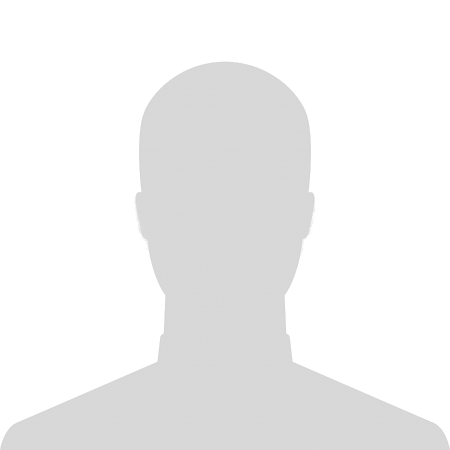
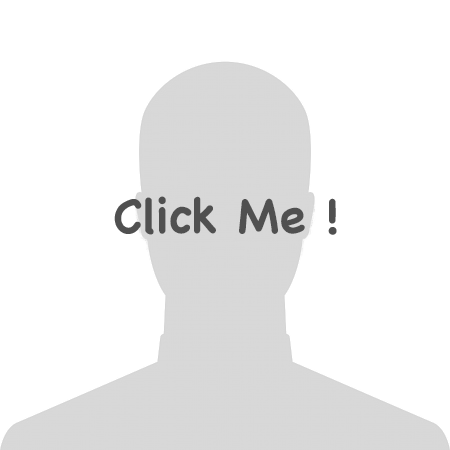
2-css, open camera2 31

Changed region(s): [[0.2489, 0.4356, 0.4978, 0.5289], [0.5289, 0.4356, 0.6844, 0.5289], [0.7156, 0.4356, 0.7467, 0.5289]]

diff --git a/www/picUpload.html b/www/picUpload.html
@@ -17,18 +17,21 @@
             <div class="pic_upload">
 <!--                <input type="file" accept="image/*" id="capture" capture="camera" class="ios-btn" size="0" >-->
 <!--                <img id="my_image" src="images/profile-image3.png" onclick="capturePicture()">-->
-                <img id="my_image" src="images/profile-image3.png">
+                <img id="my_image" src="images/profile-image3.png" onclick="capturePicture()">
             </div>
-            
+            <div id="snap-text">
+                    <p class="welcome-text">Get ready to take your picture!</p>
+            </div>
             <div class="btn-holder2">
 <!--                <input class="code-btn-cancel ios-btn" type="button" value="Back" onclick="uploadBack()">-->
                 <input id ="submit" class="code-btn-ok ios-btn" type="button" value="Submit" onclick="uploadOk()">
             </div>
+            <input id ="submit" class="code-btn-cancel ios-btn2" type="button" onclick="uploadBack()">
         </div>
             <script src="js/attendance.js"></script>
             <script type="text/javascript" src="js/parse-min.js"></script>
             <script>
-                capturePicture();
+                
                 Parse.initialize("oxdew7mMEtpnkypr0DLtpd5rPg7vFFlgo1VPBCJs","7AtLcq4907OUmsLMpZcv0y4fgrZhUKSvv8iz9ncz");
                 var checkin;
                 var loc = window.location.search.substring(1),i, val, params = loc.split("&");
@@ -40,6 +43,8 @@
                     }
                 $('body').css({'background-image':'url(images/background-3.png)'});
                 setMessages(checkin);
+                
+                takePicture();
             </script>
     </body>
 </html>

diff --git a/www/css/style.css b/www/css/style.css
@@ -55,6 +55,7 @@ header{
     color: #fff;
     font-size: 45px;
     margin-top: 15px;
+    margin-bottom: 120px;
     width: 285px;
     border : solid;
 }
@@ -72,12 +73,15 @@ header{
 
 .code-btn-cancel{
     padding: 10px 23px;
-    background-color: rgb(80,80,80);
+    background-image : url(../images/back-icon.png);
+    background-color: rgb(146,217,51);
     font-family: chalkBoard;
     color: #fff;
-    margin: 10px auto;
+    margin-top: 330px;
+    float: left;
     font-size: 45px;
-    width: 220px;
+    width: 78px;
+    height: 76px;
     border : solid;
 }
 
@@ -86,6 +90,11 @@ header{
     margin-left: 32%;
 }
 .btn-holder2{
+    display: none;
+    margin-top: 10px;
+}
+
+#snap-text{
     margin-top: 10px;
 }
 
@@ -102,6 +111,7 @@ header{
 }
 .pic_upload{
 /*    height: 100px;*/
+    display: none;
     width: 255px;
     height: 244px;
      -webkit-box-shadow:
@@ -170,6 +180,15 @@ header{
     -webkit-appearance: none;
     border-radius: 0;
     -webkit-border-radius: 25px;
+    -webkit-box-sizing: border-box; /* Android â‰¤ 2.3, iOS â‰¤ 4 */
+    -moz-box-sizing: border-box; /* Firefox 1+ */
+    box-sizing: border-box;
+}
+
+.ios-btn2 {
+    -webkit-appearance: none;
+    border-radius: 0;
+    -webkit-border-radius: 15px;
     -webkit-box-sizing: border-box; /* Android â‰¤ 2.3, iOS â‰¤ 4 */
     -moz-box-sizing: border-box; /* Firefox 1+ */
     box-sizing: border-box;

diff --git a/www/js/attendance.js b/www/js/attendance.js
@@ -66,6 +66,8 @@ var userAvatar = null;
         }*/
         function capturePicture(){
                 //alert("HERE!");
+                $('.pic_upload').css({'display':'block'});
+                $('.btn-holder2').css({'display':'block'});
                 $('#submit').removeAttr('disabled');
                 var options =   {
                     quality: 50,
@@ -431,6 +433,13 @@ var userAvatar = null;
             setTimeout(function(){
                 window.location = "index.html";
             },5000);
+            
+        }
+        
+        function takePicture(){
+            setTimeout(function(){
+                capturePicture();
+            },3000);
             
         }
         

diff --git a/www/check.html b/www/check.html
@@ -13,13 +13,14 @@
         <header>
 <!--            <img src="images/kualitatem-logo.png" onclick="logout()"/>-->
         </header>
+        
         <div id="main-div">
             <div class="btn-holder">
                 <input class="main-btn-in ios-btn" type="button" value="Check-In" onclick="checkIn()">
                 <input class="main-btn-out ios-btn" type="button" value="Check-Out" onclick="checkOut()">
             </div>
+            <input id ="submit" class="code-btn-cancel ios-btn2" type="button" onclick="logout()">
         </div>
-        
         
         <script>
             $('body').css({'background-image':'url(images/background-2.png)'});
